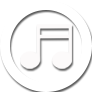
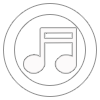
change musicbtn style

Changed region(s): [[0.1087, 0.1087, 0.8913, 0.8696], [0.0217, 0.0217, 1.0, 1.0]]

diff --git a/public/files/app.css b/public/files/app.css
@@ -86,7 +86,7 @@
     z-index: 2;
 }
 
-.home .heart{
+.home .heart {
     width: 1.5rem;
     height: auto;
 }
@@ -202,25 +202,25 @@
 }
 
 .story .image {
-    width: 97.5%; 
+    width: 97.5%;
     border: 0.05em solid #000;
 }
 
 .intro {
     background: rgb(242, 230, 236);
-    margin: 0 auto; 
+    margin: 0 auto;
     margin-top: 1rem;
-    padding-bottom: 5%; 
+    padding-bottom: 5%;
     position: relative;
 }
 
-.intro .arrow { 
+.intro .arrow {
     top: -0.75rem;
     width: 2rem;
     height: auto;
-    left: 50%; 
+    left: 50%;
     margin-left: -1rem;
-    position: absolute; 
+    position: absolute;
 }
 
 .intro .text {
@@ -230,7 +230,7 @@
     padding: 0.75rem;
     padding-top: 1rem;
     padding-bottom: 1rem;
-    background: rgb(212,185,203);
+    background: rgb(212, 185, 203);
     color: #080808;
     font-size: 0.875rem;
     letter-spacing: 0.05rem;
@@ -435,7 +435,7 @@
     font-size: 1rem;
     letter-spacing: 0;
     color: #eee;
-    position: absolute; 
+    position: absolute;
     top: 40%;
     text-shadow: 0 0.05rem 0.05rem rgba(0, 0, 0, .8)
 }
@@ -447,4 +447,48 @@
     font-size: 1.250rem;
     color: #cc0000;
     text-shadow: 0 0.05rem 0.05rem rgba(255, 255, 255, .8)
+}
+
+.musicbtn_on {
+    top: 5%;
+    right: 30%;
+    position: fixed;
+    width: 10%;
+    height: auto;
+    z-index: 999;
+    animation: rotateAnim 5s linear infinite;
+    -webkit-animation: rotateAnim 5s linear infinite;
+}
+
+.musicbtn_off {
+    top: 5%;
+    right: 30%;
+    position: fixed;
+    width: 10%;
+    height: auto;
+    z-index: 999;
+}
+
+@-webkit-keyframes rotateAnim {
+    0% {
+        -webkit-transform: rotate(0deg);
+    }
+    50% {
+        -webkit-transform: rotate(180deg);
+    }
+    100% {
+        -webkit-transform: rotate(360deg);
+    }
+}
+
+@keyframes rotateAnim {
+    0% {
+        transform: rotate(0deg);
+    }
+    50% {
+        transform: rotate(180deg);
+    }
+    100% {
+        transform: rotate(360deg);
+    }
 }

diff --git a/public/index.html b/public/index.html
@@ -15,7 +15,7 @@
             <audio autoplay="autoplay" id="audio_play" loop="">
                 <source src="files/demo.mp3" type="audio/mpeg">
             </audio>
-            <img src="files/wedding_music.png" style="top:5%;right:30%;position:fixed;width:10%;height:auto;z-index:999;" id="music_btn" />
+            <img src="files/wedding_music.png" class="musicbtn_on" id="music_btn" />
         </a>
         <div class="home">
             <div id="home-container">
@@ -169,12 +169,15 @@
         if ($('#mc_play').hasClass('on')) {
             $('#mc_play audio').get(0).pause();
             $('#mc_play').attr('class', 'stop');
-            musicBtn.src = 'files/wedding_music_disable.png';
+            musicBtn.src = 'files/wedding_music_disable.png'; 
+            $('#music_btn').attr('class','musicbtn_off');
 
         } else {
             $('#mc_play audio').get(0).play();
             $('#mc_play').attr('class', 'on');
-             musicBtn.src = 'files/wedding_music.png';
+             musicBtn.src = 'files/wedding_music.png'; 
+            $('#music_btn').attr('class','musicbtn_on');
+
         }
     }
     </script>
